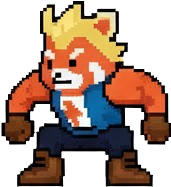
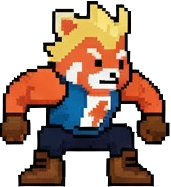
fixed some minor bugs

diff --git a/main.py b/main.py
@@ -61,7 +61,7 @@ async def main():
             Platform(762, 869, 331, 135, False),
         ]
 
-        end_page = EndPage()  # nnnnnnn
+        end_page = EndPage()
 
         running = True
         while running:
@@ -107,13 +107,11 @@ async def main():
                         case "KATANA":
                             katana = Katana()
 
-            mouse_click = any(  # nnnnnn
+            mouse_click = any(
                 event.type == pygame.MOUSEBUTTONDOWN and event.button == 1
                 for event in events
             )
-
             mouse_pos = screen_to_virtual(pygame.mouse.get_pos(), screen)
-            # mouse_click = pygame.mouse.get_pressed()[0]
 
             virtual.blit((background), (0, 0))
 
@@ -155,7 +153,7 @@ async def main():
             player1.check_death(VIRTUAL_SIZE[1])
             player2.check_death(VIRTUAL_SIZE[1])
 
-            if player1.lives <= 0 or player2.lives <= 0:  # nnn for end page
+            if player1.lives <= 0 or player2.lives <= 0:
                 if player1.lives <= 0:
                     winner_name = player2_name
                     loser_name = player1_name
@@ -203,13 +201,12 @@ async def main():
                     katana = None
 
             if heart:
-                heart.update(platforms)  # falls down / lands on platforms
-                heart.draw(virtual)  # draw the heart
+                heart.update(platforms)
+                heart.draw(virtual)
 
                 heart.check_collision(player1)
                 heart.check_collision(player2)
 
-                # Remove heart if collected or expired
                 if heart.state == "USED":
                     heart = None
 
@@ -220,15 +217,11 @@ async def main():
                 speed_boost.check_collision(player1)
                 speed_boost.check_collision(player2)
 
-                # Fell off screen without being collected
                 if speed_boost.state == "USED":
                     speed_boost = None
 
             virtual.blit(p1_name_surf, (40, 104))
             virtual.blit(p2_name_surf, (VIRTUAL_SIZE[0] - 320, 104))
-
-            # mouse_pos = screen_to_virtual(pygame.mouse.get_pos(), screen)  # moved to top after event handling
-            # mouse_click = pygame.mouse.get_pressed()[0]
 
             virtual.blit(game_quit_img, game_quit_rect)
 

diff --git a/player.py b/player.py
@@ -350,7 +350,12 @@ class Player:
                     self.is_attacking = False
                     self.attack_frame = 0
 
-                    self.current_img = self.idle_img
+                    if self.facing == "RIGHT":
+                        self.current_img = pygame.transform.flip(
+                            self.idle_img, True, False
+                        )
+                    else:
+                        self.current_img = self.idle_img
                 else:
                     self.current_img = frames[self.attack_frame]
             return
@@ -373,7 +378,10 @@ class Player:
         elif moving_right:
             frames = self.walk_right
         else:
-            self.current_img = self.idle_img
+            if self.facing == "RIGHT":
+                self.current_img = pygame.transform.flip(self.idle_img, True, False)
+            else:
+                self.current_img = self.idle_img
             self.frame_index = 0
             self.anim_timer = 0
             return
